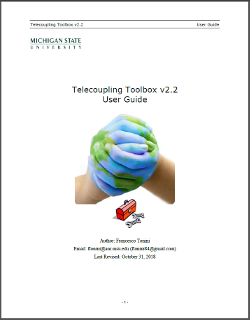
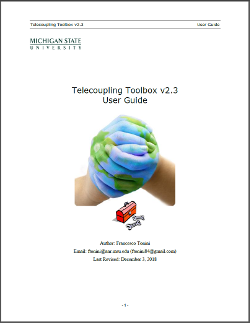
update arcgis tbx to v2.3

diff --git a/releases-arcgis-toolbox.html b/releases-arcgis-toolbox.html
@@ -10,6 +10,8 @@ subtitle: Major and Minor Releases
             <h2>Major Releases</h2>
             <p>
                 <ul>
+                    <li>Version 2.3</li>
+                    <p>This release adds a new tool to the Flows toolset, called <em>Commodity Trade</em>. This tool maps the trade of commodities between 2010 and 2014 for a select set of commodities.</p>        
                     <li>Version 2.2</li>
                     <p>This release adds two new tools to the Environmental Analysis toolset, called <em>Coastal Blue Carbon</em> and <em>Coastal Blue Carbon Preprocessor</em>, respectively, customized from InVEST (3.3.3). This tools can be used to predict the amount of carbon stored and sequestered over a coastal zone at particular points in time due to changes in land cover.</p>    
                     <li>Version 2.1</li>
